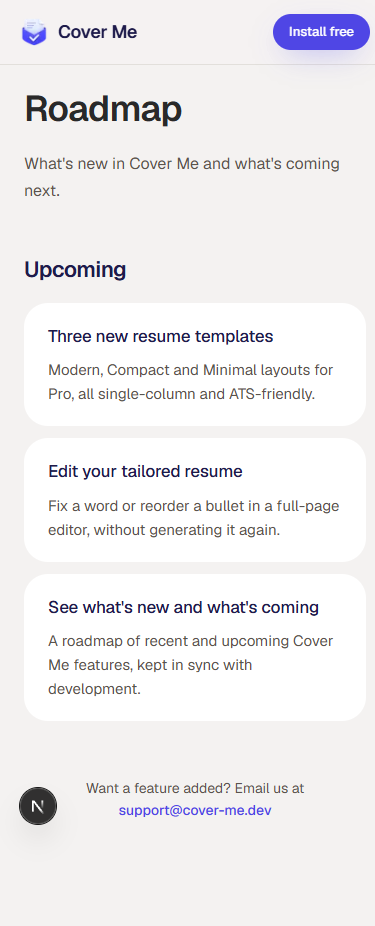
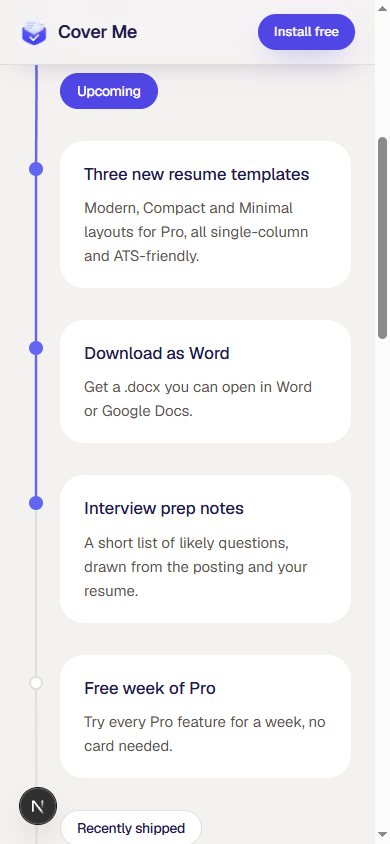
Roadmap page as a winding timeline that fills on scroll (#117)
Desktop: cards alternate left and right of a curved line through nodes
offset toward each card. Mobile: a straight line on the left with cards
to its right. The line fills in Cover Me indigo to 60% down the
viewport, and nodes and group labels turn indigo as it reaches them.

diff --git a/web/components/roadmap/RoadmapTimeline.tsx b/web/components/roadmap/RoadmapTimeline.tsx
@@ -1,0 +1,98 @@
+'use client'
+
+import { useEffect, useRef } from 'react'
+import type { RoadmapItem } from '@/lib/roadmap'
+import { RoadmapCard } from './RoadmapCard'
+import { pathThrough } from './path-through'
+
+export interface TimelineGroup { title: string; items: RoadmapItem[] }
+
+// Cards and nodes are placed by CSS. On desktop the nodes sit off-centre
+// towards their card, so the line winds; on mobile they share one x, so it's
+// straight. The line is drawn from where the nodes landed, and the purple copy
+// fills to 60% down the viewport as the page scrolls.
+export function RoadmapTimeline({ groups }: { groups: TimelineGroup[] }) {
+  const listRef = useRef<HTMLOListElement>(null)
+  const trackRef = useRef<SVGPathElement>(null)
+  const fillRef = useRef<SVGPathElement>(null)
+
+  useEffect(() => {
+    const list = listRef.current, track = trackRef.current, fill = fillRef.current
+    if (!list || !track || !fill) return
+    let length = 0
+    let samples: number[] = [] // y at evenly spaced lengths along the line
+    let anchors: { row: HTMLElement; y: number }[] = []
+    let raf = 0
+
+    const fillTo = () => {
+      const target = window.innerHeight * 0.6 - list.getBoundingClientRect().top
+      let i = samples.findIndex((y) => y > target)
+      if (i === -1) i = samples.length
+      const filled = samples.length ? (length * Math.max(0, i - 1)) / (samples.length - 1) : 0
+      fill.style.strokeDashoffset = String(length - filled)
+      for (const a of anchors) a.row.dataset.reached = String(a.y <= target)
+    }
+
+    const layout = () => {
+      const box = list.getBoundingClientRect()
+      const nodes = [...list.querySelectorAll<HTMLElement>('[data-anchor]')]
+      const points = nodes.map((n) => {
+        const r = n.getBoundingClientRect()
+        return { x: r.left + r.width / 2 - box.left, y: r.top + r.height / 2 - box.top }
+      })
+      anchors = nodes.map((n, i) => ({ row: n.closest('li') as HTMLElement, y: points[i].y }))
+      const d = pathThrough(points)
+      track.setAttribute('d', d)
+      fill.setAttribute('d', d)
+      length = fill.getTotalLength()
+      fill.style.strokeDasharray = String(length)
+      samples = Array.from({ length: 301 }, (_, i) => fill.getPointAtLength((length * i) / 300).y)
+      fillTo()
+    }
+
+    const onScroll = () => {
+      cancelAnimationFrame(raf)
+      raf = requestAnimationFrame(fillTo)
+    }
+    const resize = new ResizeObserver(layout)
+    resize.observe(list)
+    window.addEventListener('scroll', onScroll, { passive: true })
+    return () => {
+      cancelAnimationFrame(raf)
+      resize.disconnect()
+      window.removeEventListener('scroll', onScroll)
+    }
+  }, [])
+
+  let side = 0
+  return (
+    <ol ref={listRef} className="relative flex flex-col gap-8 md:gap-0">
+      <svg aria-hidden="true" className="pointer-events-none absolute inset-0 h-full w-full overflow-visible">
+        <path ref={trackRef} fill="none" stroke="var(--line)" strokeWidth={2} strokeLinecap="round" />
+        <path ref={fillRef} fill="none" stroke="var(--brand)" strokeWidth={2.5} strokeLinecap="round" />
+      </svg>
+      {groups.flatMap((g) => [
+        <li key={g.title} className="group relative flex md:justify-center md:py-10 md:first:pt-0">
+          <span data-anchor className="absolute left-3 top-1/2 h-px w-px md:left-1/2" />
+          <h2 className="relative ml-9 rounded-full border border-line bg-surface px-4 py-1.5 text-[14px] font-medium text-ink transition-colors motion-reduce:transition-none group-data-[reached=true]:border-brand-strong group-data-[reached=true]:bg-brand-strong group-data-[reached=true]:text-white md:ml-0">
+            {g.title}
+          </h2>
+        </li>,
+        ...g.items.map((item) => {
+          const left = side++ % 2 === 0
+          return (
+            <li key={item.number} className="group relative md:grid md:grid-cols-2 md:gap-x-32 md:[&+&]:-mt-8">
+              <span
+                data-anchor
+                className={`absolute left-3 top-7 h-3.5 w-3.5 -translate-x-1/2 -translate-y-1/2 rounded-full border-2 border-line bg-surface transition-colors motion-reduce:transition-none group-data-[reached=true]:border-brand group-data-[reached=true]:bg-brand ${left ? 'md:left-[calc(50%-44px)]' : 'md:left-[calc(50%+44px)]'}`}
+              />
+              <div className={`pl-9 md:pl-0 ${left ? '' : 'md:col-start-2'}`}>
+                <RoadmapCard item={item} />
+              </div>
+            </li>
+          )
+        }),
+      ])}
+    </ol>
+  )
+}

diff --git a/web/app/roadmap/page.tsx b/web/app/roadmap/page.tsx
@@ -1,8 +1,9 @@
 import type { Metadata } from 'next'
 import { SiteNav } from '@/components/site/SiteNav'
 import { SiteFooter } from '@/components/site/SiteFooter'
-import { FeatureRequest, RoadmapCard } from '@/components/landing/RoadmapStrip'
-import { getRoadmap, type RoadmapItem } from '@/lib/roadmap'
+import { FeatureRequest } from '@/components/roadmap/RoadmapCard'
+import { RoadmapTimeline } from '@/components/roadmap/RoadmapTimeline'
+import { getRoadmap } from '@/lib/roadmap'
 
 const BASE = process.env.NEXT_PUBLIC_SITE_URL ?? 'https://www.cover-me.dev'
 const DESCRIPTION = "What's new in Cover Me and what's coming next."
@@ -16,39 +17,25 @@ export const metadata: Metadata = {
   openGraph: { title: 'Cover Me roadmap', description: DESCRIPTION, url: `${BASE}/roadmap`, siteName: 'Cover Me', type: 'website' },
 }
 
-function Group({ title, items }: { title: string; items: RoadmapItem[] }) {
-  if (items.length === 0) return null
-  return (
-    <section className="flex flex-col gap-4">
-      <h2 className="text-[22px] text-ink">{title}</h2>
-      <ul className="flex flex-col gap-3">
-        {items.map((item) => <RoadmapCard key={item.number} item={item} />)}
-      </ul>
-    </section>
-  )
-}
-
 export default async function RoadmapPage() {
-  const roadmap = (await getRoadmap()) ?? { rollingOut: [], upcoming: [], shipped: [] }
-  const empty = roadmap.rollingOut.length + roadmap.upcoming.length + roadmap.shipped.length === 0
+  const roadmap = await getRoadmap()
+  const groups = [
+    { title: 'Rolling out', items: roadmap?.rollingOut ?? [] },
+    { title: 'Upcoming', items: roadmap?.upcoming ?? [] },
+    { title: 'Recently shipped', items: roadmap?.shipped ?? [] },
+  ].filter((g) => g.items.length > 0)
   return (
     <div className="min-h-screen bg-background text-foreground">
       <SiteNav />
-      <main className="mx-auto max-w-2xl px-6 py-20">
-        <div className="mb-12">
+      <main className="mx-auto max-w-5xl px-6 py-20">
+        <div className="mx-auto mb-14 max-w-2xl md:text-center">
           <h1 className="mb-3 text-[36px] text-foreground">Roadmap</h1>
           <p className="text-[16px] leading-[1.7] text-muted-foreground">{DESCRIPTION}</p>
         </div>
-        {empty ? (
-          <p className="text-[15px] text-ink-2">Nothing to show right now. Check back soon.</p>
-        ) : (
-          <div className="flex flex-col gap-12">
-            <Group title="Rolling out" items={roadmap.rollingOut} />
-            <Group title="Upcoming" items={roadmap.upcoming} />
-            <Group title="Recently shipped" items={roadmap.shipped} />
-          </div>
-        )}
-        <div className="mt-14 text-center">
+        {groups.length === 0
+          ? <p className="text-[15px] text-ink-2 md:text-center">Nothing to show right now. Check back soon.</p>
+          : <RoadmapTimeline groups={groups} />}
+        <div className="mt-16 text-center">
           <FeatureRequest />
         </div>
       </main>

diff --git a/web/components/landing/RoadmapStrip.tsx b/web/components/landing/RoadmapStrip.tsx
@@ -1,29 +1,8 @@
 import Link from 'next/link'
 import { ArrowRightIcon } from '@phosphor-icons/react/dist/ssr'
-import { getRoadmap, type RoadmapItem } from '@/lib/roadmap'
+import { getRoadmap } from '@/lib/roadmap'
+import { FeatureRequest, RoadmapCard } from '@/components/roadmap/RoadmapCard'
 import { Eyebrow } from '@/components/site/Eyebrow'
-
-const SUPPORT_EMAIL = 'support@cover-me.dev'
-
-// The group heading names the status, so a card carries no status pill.
-export function RoadmapCard({ item }: { item: RoadmapItem }) {
-  return (
-    <li className="soft-card flex flex-col gap-2 px-6 py-5">
-      {item.shipped && <span className="text-[12px] text-subtle">{item.shipped}</span>}
-      <h3 className="text-[17px] font-medium tracking-[-0.01em] text-ink">{item.title}</h3>
-      {item.blurb && <p className="text-[15px] leading-[1.6] text-ink-2">{item.blurb}</p>}
-    </li>
-  )
-}
-
-export function FeatureRequest() {
-  return (
-    <p className="text-[14px] text-ink-2">
-      Want a feature added? Email us at{' '}
-      <a href={`mailto:${SUPPORT_EMAIL}`} className="whitespace-nowrap font-medium text-brand-strong hover:underline">{SUPPORT_EMAIL}</a>
-    </p>
-  )
-}
 
 // Landing teaser: the 3 newest upcoming items. Hidden when there are none.
 export async function RoadmapStrip() {
@@ -36,7 +15,7 @@ export async function RoadmapStrip() {
         <h2 className="text-[clamp(32px,3.6vw,44px)] leading-[1.05]">What&apos;s coming next</h2>
       </div>
       <ul className="mx-auto mt-10 grid max-w-[1040px] gap-3 text-left md:grid-cols-3">
-        {upcoming.map((item) => <RoadmapCard key={item.number} item={item} />)}
+        {upcoming.map((item) => <li key={item.number}><RoadmapCard item={item} /></li>)}
       </ul>
       <div className="mt-8 flex flex-col items-center gap-3 text-center">
         <Link href="/roadmap" className="inline-flex items-center gap-1.5 text-[15px] font-medium text-brand-strong hover:underline">

diff --git a/web/components/roadmap/RoadmapCard.tsx b/web/components/roadmap/RoadmapCard.tsx
@@ -1,0 +1,22 @@
+import type { RoadmapItem } from '@/lib/roadmap'
+
+const SUPPORT_EMAIL = 'support@cover-me.dev'
+
+export function RoadmapCard({ item }: { item: RoadmapItem }) {
+  return (
+    <div className="soft-card flex flex-col gap-2 px-6 py-5">
+      {item.shipped && <span className="text-[12px] text-subtle">{item.shipped}</span>}
+      <h3 className="text-[17px] font-medium tracking-[-0.01em] text-ink">{item.title}</h3>
+      {item.blurb && <p className="text-[15px] leading-[1.6] text-ink-2">{item.blurb}</p>}
+    </div>
+  )
+}
+
+export function FeatureRequest() {
+  return (
+    <p className="text-[14px] text-ink-2">
+      Want a feature added? Email us at{' '}
+      <a href={`mailto:${SUPPORT_EMAIL}`} className="whitespace-nowrap font-medium text-brand-strong hover:underline">{SUPPORT_EMAIL}</a>
+    </p>
+  )
+}

diff --git a/web/components/roadmap/path-through.test.ts b/web/components/roadmap/path-through.test.ts
@@ -1,0 +1,17 @@
+import { describe, expect, it } from 'vitest'
+import { pathThrough } from './path-through'
+
+describe('pathThrough', () => {
+  it('draws S-curves with vertical tangents through every point', () => {
+    expect(pathThrough([{ x: 10, y: 0 }, { x: 50, y: 100 }])).toBe('M 10 0 C 10 50, 50 50, 50 100')
+  })
+
+  it('is a straight line when every point shares one x (the mobile layout)', () => {
+    const d = pathThrough([{ x: 12, y: 0 }, { x: 12, y: 80 }, { x: 12, y: 200 }])
+    expect(new Set(d.match(/-?\d+(\.\d+)?/g)!.filter((_, i) => i % 2 === 0))).toEqual(new Set(['12']))
+  })
+
+  it('is empty with no points', () => {
+    expect(pathThrough([])).toBe('')
+  })
+})

diff --git a/web/components/roadmap/path-through.ts b/web/components/roadmap/path-through.ts
@@ -1,0 +1,12 @@
+// A line through every anchor, in order. Each step is an S-curve with vertical
+// tangents, so offset anchors make it wind and aligned ones make it straight.
+// y only ever increases along it, which the timeline's scroll fill relies on.
+export function pathThrough(points: { x: number; y: number }[]): string {
+  if (points.length === 0) return ''
+  return points.reduce((d, p, i) => {
+    if (i === 0) return `M ${p.x} ${p.y}`
+    const prev = points[i - 1]
+    const mid = (p.y - prev.y) / 2
+    return `${d} C ${prev.x} ${prev.y + mid}, ${p.x} ${p.y - mid}, ${p.x} ${p.y}`
+  }, '')
+}
